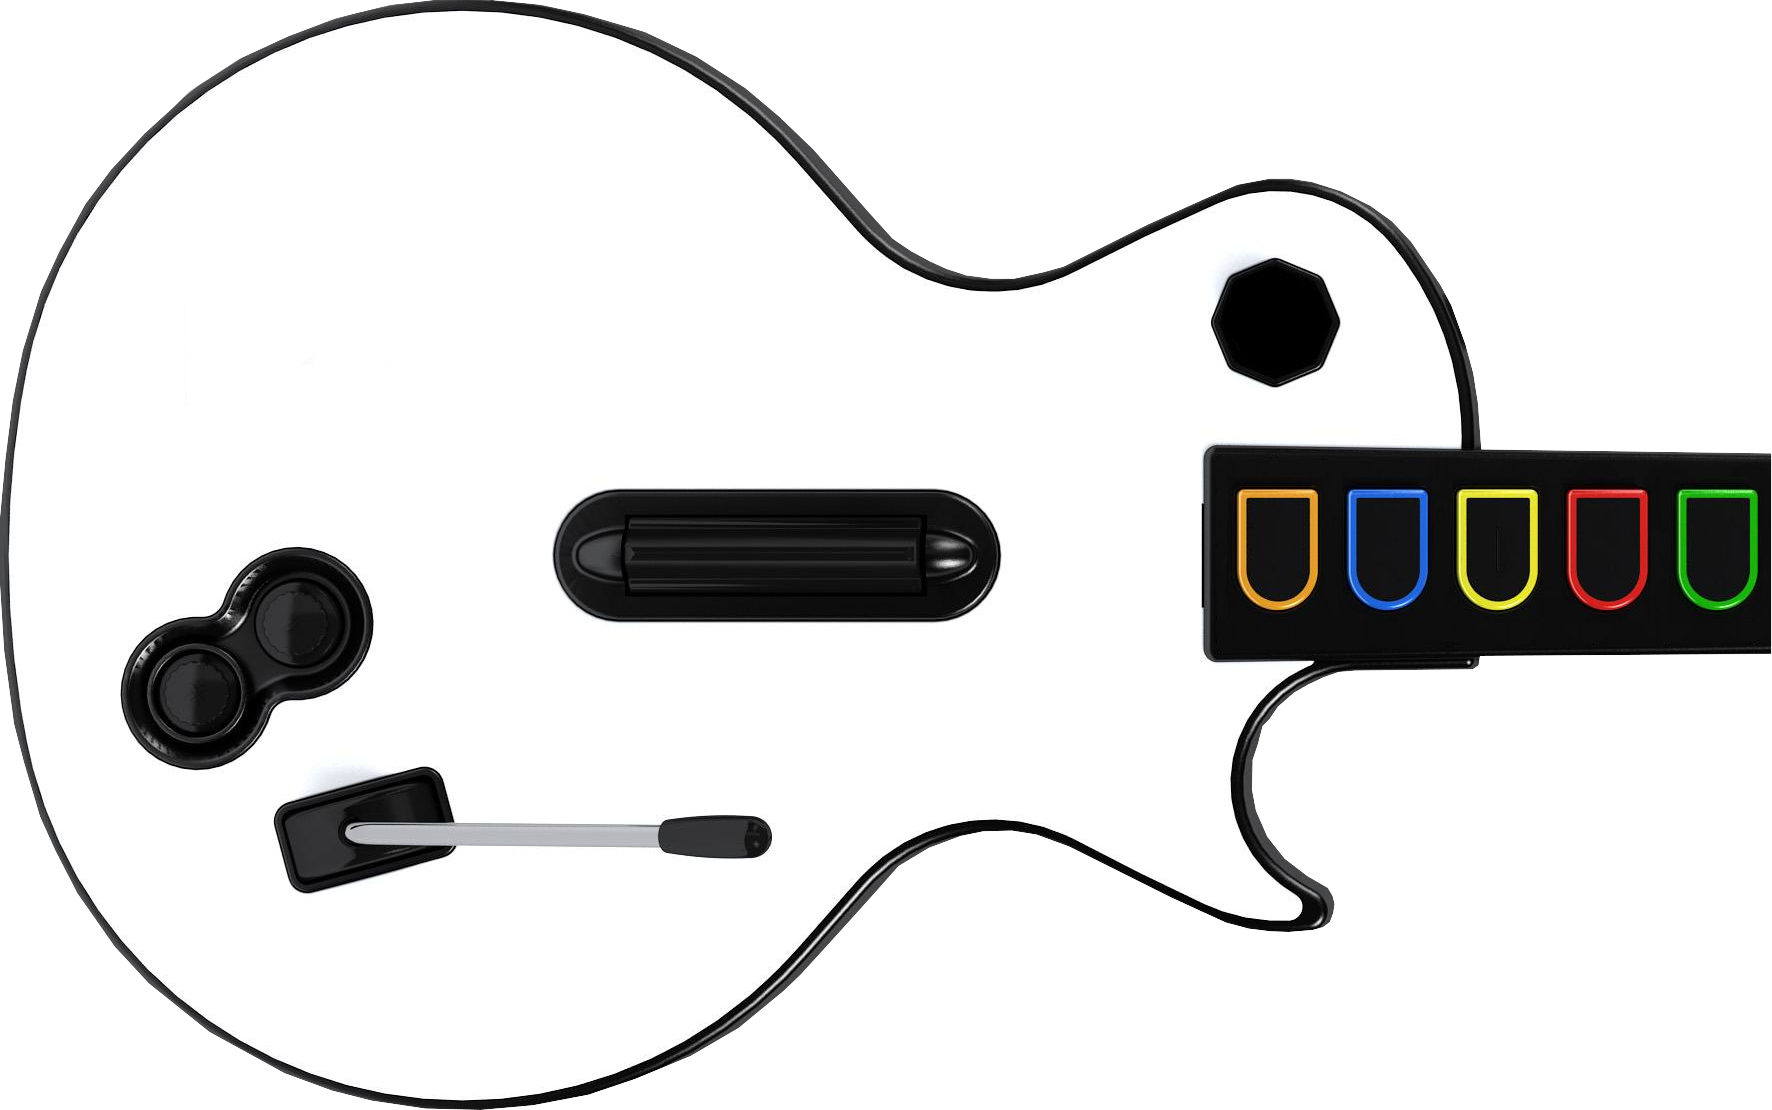
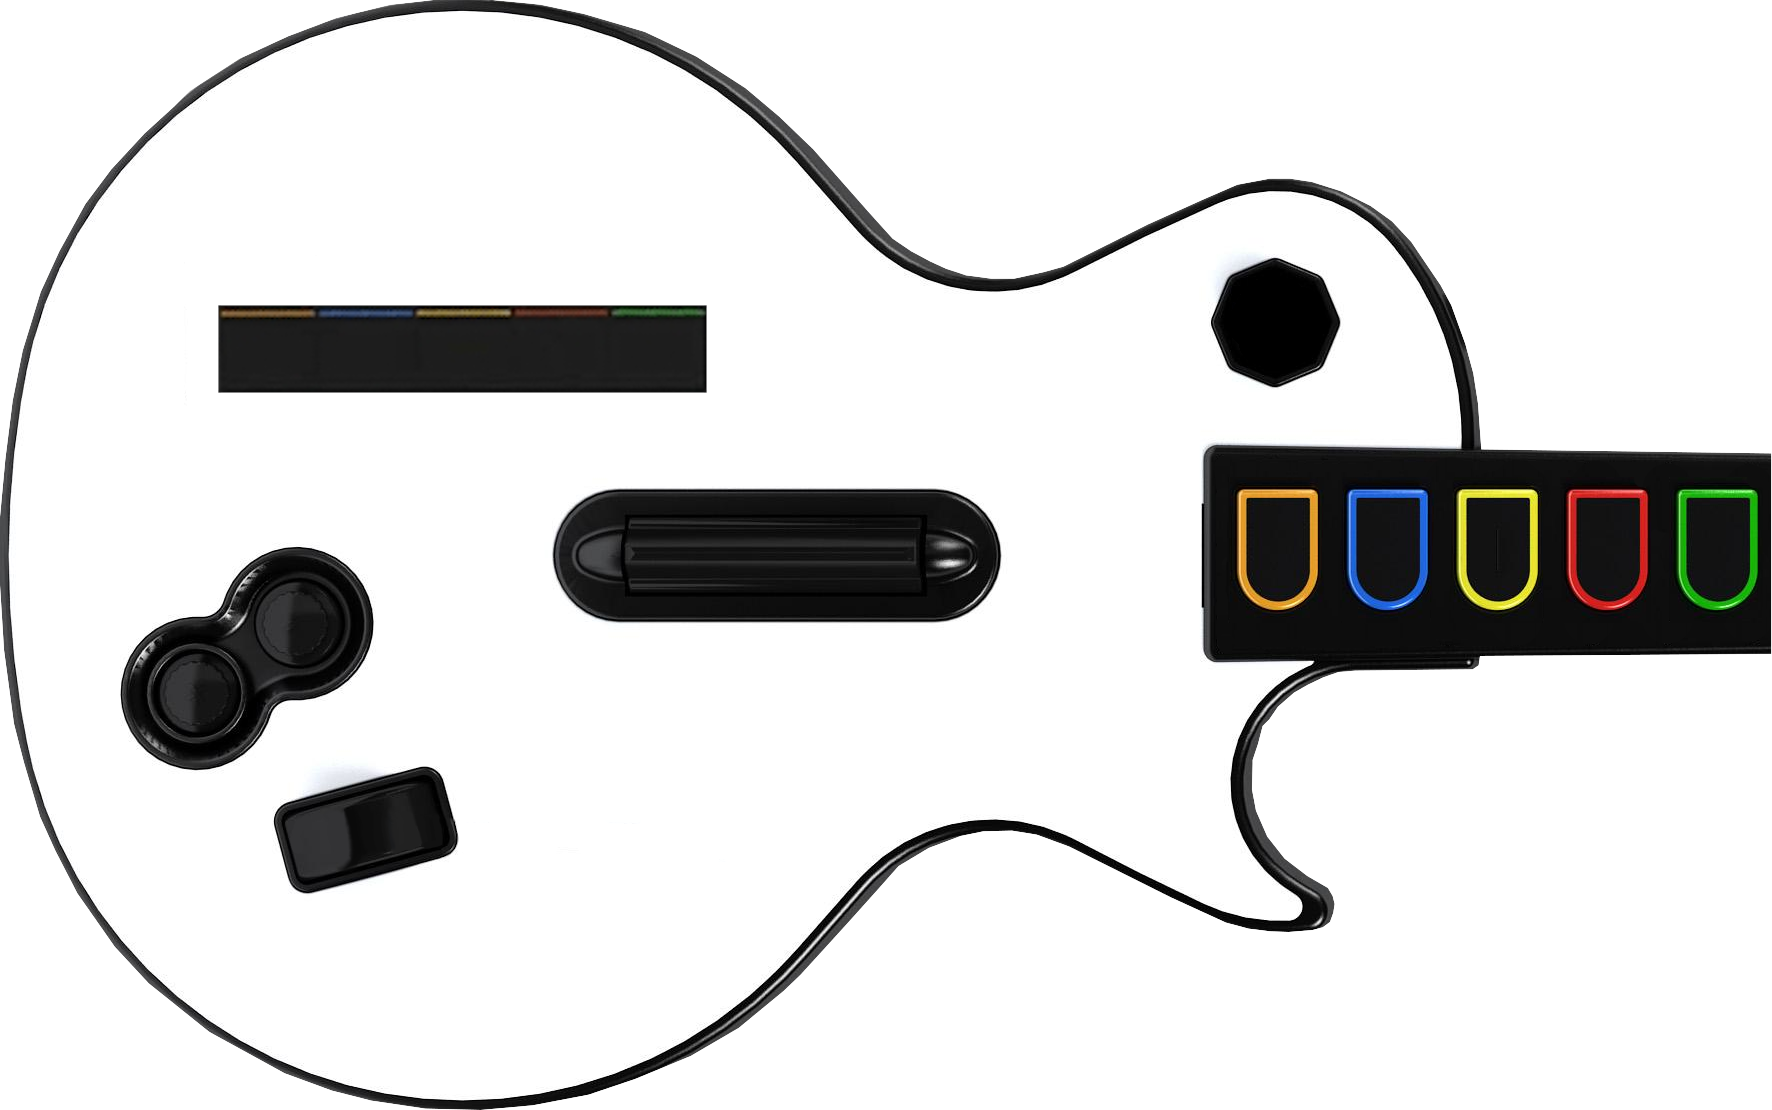
Adding Guitar Touch bar and Whammy bar Support.

Changed region(s): [[0.1242, 0.2757, 0.4035, 0.3676], [0.1862, 0.7351, 0.4345, 0.7964]]

diff --git a/WiinUPro/Controls/WiiControl.xaml b/WiinUPro/Controls/WiiControl.xaml
@@ -276,7 +276,7 @@
             </Canvas>
         </Viewbox>
         <!-- Guitar -->
-        <Viewbox x:Name="viewGuitar" Width="1100" Visibility="Collapsed">
+        <Viewbox x:Name="viewGuitar" Width="1100" Visibility="Visible">
             <Canvas Width="1772" Height="1110" Margin="-120,0,0,0" Background="Transparent">
                 <Grid Margin="0,0,0,0">
                     <Image Source="/WiinUPro;component/Images/Controllers/Guitar/guitarBase.png" HorizontalAlignment="Left" VerticalAlignment="Top" Margin="0" Width="1772" Height="1110"/>
@@ -298,6 +298,21 @@
                     </Image>
                     <Image x:Name="gBtnPlus" Source="/WiinUPro;component/Images/Controllers/Guitar/gButton.png" HorizontalAlignment="Left" VerticalAlignment="Top" Margin="266,596,0,0" Width="59" Opacity="0" MouseLeftButtonDown="Btn_MouseLeftButtonDown" MouseRightButtonUp="Btn_MouseRightButtonUp" Tag="gutMINUS" />
                     <Image x:Name="gBtnMinus" Source="/WiinUPro;component/Images/Controllers/Guitar/gButton.png" HorizontalAlignment="Left" VerticalAlignment="Top" Margin="167,664,0,0" Width="59" Opacity="0" MouseLeftButtonDown="Btn_MouseLeftButtonDown" MouseRightButtonUp="Btn_MouseRightButtonUp" Tag="gutPLUS" />
+                    <Image x:Name="gTouch1" Source="/WiinUPro;component/Images/Controllers/Guitar/gTouch.png" HorizontalAlignment="Left" VerticalAlignment="Top" Margin="613,322,0,0" Width="90" Opacity="0" MouseLeftButtonDown="Btn_MouseLeftButtonDown" MouseRightButtonUp="Btn_MouseRightButtonUp" Tag="gutT1" />
+                    <Image x:Name="gTouch2" Source="/WiinUPro;component/Images/Controllers/Guitar/gTouch.png" HorizontalAlignment="Left" VerticalAlignment="Top" Margin="516,322,0,0" Width="90" Opacity="0" MouseLeftButtonDown="Btn_MouseLeftButtonDown" MouseRightButtonUp="Btn_MouseRightButtonUp" Tag="gutT2" />
+                    <Image x:Name="gTouch3" Source="/WiinUPro;component/Images/Controllers/Guitar/gTouch.png" HorizontalAlignment="Left" VerticalAlignment="Top" Margin="420,322,0,0" Width="90" Opacity="0" MouseLeftButtonDown="Btn_MouseLeftButtonDown" MouseRightButtonUp="Btn_MouseRightButtonUp" Tag="gutT3" />
+                    <Image x:Name="gTouch4" Source="/WiinUPro;component/Images/Controllers/Guitar/gTouch.png" HorizontalAlignment="Left" VerticalAlignment="Top" Margin="321,322,0,0" Width="90" Opacity="0" MouseLeftButtonDown="Btn_MouseLeftButtonDown" MouseRightButtonUp="Btn_MouseRightButtonUp" Tag="gutT4" />
+                    <Image x:Name="gTouch5" Source="/WiinUPro;component/Images/Controllers/Guitar/gTouch.png" HorizontalAlignment="Left" VerticalAlignment="Top" Margin="223,322,0,0" Width="90" Opacity="0" MouseLeftButtonDown="Btn_MouseLeftButtonDown" MouseRightButtonUp="Btn_MouseRightButtonUp" Tag="gutT5" />
+                    <Image x:Name="gWhammy" Source="/WiinUPro;component/Images/Controllers/Guitar/gWhammy.png" HorizontalAlignment="Left" VerticalAlignment="Top" Margin="345,815,0,0" Width="428"  MouseLeftButtonUp="OpenContextMenu">
+                        <Image.ContextMenu>
+                            <ContextMenu>
+                                <MenuItem Header="Press" Tag="gutWT" Click="OpenInput" />
+                                <MenuItem Header="Full Press" Tag="gutWFULL" Click="OpenInput" />
+                                <Separator/>
+                                <MenuItem Header="Calibrate" Tag="gutWT" Click="CalibrateTrigger_Click"/>
+                            </ContextMenu>
+                        </Image.ContextMenu>
+                    </Image>
                     <!-- Joystick -->
                     <Image x:Name="gStick" Source="/WiinUPro;component/Images/Controllers/Guitar/gJoystick.png" HorizontalAlignment="Left" VerticalAlignment="Top" Margin="1236,283,0,0" Width="77" Opacity="1" MouseLeftButtonUp="OpenContextMenu" >
                         <Image.ContextMenu>

diff --git a/WiinUPro/Windows/DummyWindow.xaml b/WiinUPro/Windows/DummyWindow.xaml
@@ -110,14 +110,21 @@
                 <Button x:Name="gYellow" Content="Y" HorizontalAlignment="Left" Margin="54,5,0,0" VerticalAlignment="Top" Width="20" Height="20" Click="button_Click" Tag="Y"/>
                 <Button x:Name="gBlue" Content="B" HorizontalAlignment="Left" Margin="29,5,0,0" VerticalAlignment="Top" Width="20" Height="20" Click="button_Click" Tag="B"/>
                 <Button x:Name="gOrange" Content="O" HorizontalAlignment="Left" Margin="4,5,0,0" VerticalAlignment="Top" Width="20" Height="20" Click="button_Click" Tag="O"/>
-                <Button x:Name="gUp" Content="^" HorizontalAlignment="Left" Margin="104,30,0,0" VerticalAlignment="Top" Width="20" Height="20" Click="button_Click" Tag="SUp"/>
-                <Button x:Name="gDown" Content="v" HorizontalAlignment="Left" Margin="104,55,0,0" VerticalAlignment="Top" Width="20" Height="20" Click="button_Click" Tag="SDown"/>
+                <Button x:Name="gUp" Content="^" HorizontalAlignment="Left" Margin="79,30,0,0" VerticalAlignment="Top" Width="20" Height="20" Click="button_Click" Tag="SUp"/>
+                <Button x:Name="gDown" Content="v" HorizontalAlignment="Left" Margin="104,30,0,0" VerticalAlignment="Top" Width="20" Height="20" Click="button_Click" Tag="SDown"/>
                 <Button x:Name="gPlus" Content="+" HorizontalAlignment="Left" Margin="4,30,0,0" VerticalAlignment="Top" Width="20" Height="20" Click="button_Click" Tag="PLUS"/>
                 <Button x:Name="gMinus" Content="-" HorizontalAlignment="Left" Margin="29,30,0,0" VerticalAlignment="Top" Width="20" Height="20" Click="button_Click" Tag="MINUS"/>
                 <Slider x:Name="sliderGutX" HorizontalAlignment="Left" Margin="141,5,0,0" VerticalAlignment="Top" Width="112" Maximum="1" Minimum="-1" TickFrequency="0.1" IsSnapToTickEnabled="True" TickPlacement="BottomRight" ValueChanged="ChangeAnalog" Tag="JoyX"/>
                 <Slider x:Name="sliderGutY" HorizontalAlignment="Left" Margin="141,36,0,0" VerticalAlignment="Top" Width="112" Maximum="1" Minimum="-1" TickFrequency="0.1" IsSnapToTickEnabled="True" TickPlacement="BottomRight" ValueChanged="ChangeAnalog" Tag="JoyY"/>
                 <Label Content="X" HorizontalAlignment="Left" Margin="258,3,0,0" VerticalAlignment="Top"/>
                 <Label Content="Y" HorizontalAlignment="Left" Margin="258,34,0,0" VerticalAlignment="Top"/>
+                <Slider x:Name="sliderGutW" HorizontalAlignment="Left" Margin="141,64,0,0" VerticalAlignment="Top" Width="112" Maximum="1" Minimum="0" TickFrequency="0.1" IsSnapToTickEnabled="True" TickPlacement="BottomRight" ValueChanged="ChangeAnalog" Tag="WT"/>
+                <Label Content="W" HorizontalAlignment="Left" Margin="256,59,0,0" VerticalAlignment="Top"/>
+                <Button x:Name="gTouch1" Content="T1" HorizontalAlignment="Left" Margin="104,55,0,0" VerticalAlignment="Top" Width="20" Height="20" Click="button_Click" Tag="T1"/>
+                <Button x:Name="gTouch2" Content="T2" HorizontalAlignment="Left" Margin="79,55,0,0" VerticalAlignment="Top" Width="20" Height="20" Click="button_Click" Tag="T2"/>
+                <Button x:Name="gTouch3" Content="T3" HorizontalAlignment="Left" Margin="54,55,0,0" VerticalAlignment="Top" Width="20" Height="20" Click="button_Click" Tag="T3"/>
+                <Button x:Name="gTouch4" Content="T4" HorizontalAlignment="Left" Margin="29,55,0,0" VerticalAlignment="Top" Width="20" Height="20" Click="button_Click" Tag="T4"/>
+                <Button x:Name="gTouch5" Content="T5" HorizontalAlignment="Left" Margin="4,55,0,0" VerticalAlignment="Top" Width="20" Height="20" Click="button_Click" Tag="T5"/>
             </Grid>
         </GroupBox>
         <!-- GCN Adapter -->

diff --git a/Nintroller/Controllers/Guitar.cs b/Nintroller/Controllers/Guitar.cs
@@ -11,7 +11,7 @@ namespace NintrollerLib
         public bool StrumUp, StrumDown;
         public bool Minus, Plus;
         public Joystick joystick;
-        public byte whammyBar;
+        public Trigger whammyBar;
         public byte touchBar;
         public bool T1, T2, T3, T4, T5; // Touch Frets
 
@@ -34,7 +34,7 @@ namespace NintrollerLib
                 joystick.rawX =    data[offset    ] & 0x3F;
                 joystick.rawY =    data[offset + 1] & 0x3F;
                 touchBar  = (byte)(data[offset + 2] & 0x1F);
-                whammyBar = (byte)(data[offset + 3] & 0x1F);
+                whammyBar.rawValue = (byte)(data[offset + 3] & 0x1F);
 
                 Plus      = (data[offset + 4] & 0x04) == 0;
                 Minus     = (data[offset + 4] & 0x10) == 0;
@@ -104,6 +104,8 @@ namespace NintrollerLib
                 }
 
                 joystick.Normalize();
+                whammyBar.Normalize();
+                whammyBar.full = whammyBar.rawValue >= whammyBar.max;
             }
 
             wiimote = new Wiimote(data, wiimote);
@@ -149,6 +151,7 @@ namespace NintrollerLib
             if (from.GetType() == typeof(Guitar))
             {
                 joystick.Calibrate(((Guitar)from).joystick);
+                whammyBar.Calibrate(((Guitar)from).whammyBar);
                 wiimote.SetCalibration(((Guitar)from).wiimote);
             }
             else if (from.GetType() == typeof(Wiimote))
@@ -187,8 +190,25 @@ namespace NintrollerLib
                         }
                     }
                 }
+                else if (component.StartsWith("t"))
+                {
+                    string[] triggerConfig = component.Split(new char[] { '|' });
+
+                    for (int t = 1; t < triggerConfig.Length; t++)
+                    {
+                        int value = 0;
+                        if (int.TryParse(triggerConfig[t], out value))
+                        {
+                            switch (t)
+                            {
+                                case 1: whammyBar.min = value; break;
+                                case 2: whammyBar.max = value; break;
+                            }
+                        }
+                    }
+                }
             }
-            }
+        }
 
         public string GetCalibrationString()
         {
@@ -204,6 +224,10 @@ namespace NintrollerLib
                     sb.Append("|"); sb.Append(joystick.minY);
                     sb.Append("|"); sb.Append(joystick.maxY);
                     sb.Append("|"); sb.Append(joystick.deadY);
+
+                sb.Append(":t");
+                    sb.Append("|"); sb.Append(whammyBar.min);
+                    sb.Append("|"); sb.Append(whammyBar.max);
 
             return sb.ToString();
         }
@@ -247,6 +271,12 @@ namespace NintrollerLib
             yield return new KeyValuePair<string, float>(INPUT_NAMES.GUITAR.DOWN, joystick.Y > 0 ? 0 : -joystick.Y);
             yield return new KeyValuePair<string, float>(INPUT_NAMES.GUITAR.LEFT, joystick.X > 0 ? 0 : -joystick.X);
             yield return new KeyValuePair<string, float>(INPUT_NAMES.GUITAR.RIGHT, joystick.X > 0 ? joystick.X : 0);
+
+            // Whammy
+            whammyBar.Normalize();
+            yield return new KeyValuePair<string, float>(INPUT_NAMES.GUITAR.WHAMMY, whammyBar.value > 0 ? 1.0f : 0.0f);
+            yield return new KeyValuePair<string, float>(INPUT_NAMES.GUITAR.WHAMMY_FULL, whammyBar.rawValue >= whammyBar.max ? 1.0f : 0.0f);
+            yield return new KeyValuePair<string, float>(INPUT_NAMES.GUITAR.WHAMMY_BAR, whammyBar.value);
 
             // Touch Frets
             yield return new KeyValuePair<string, float>(INPUT_NAMES.GUITAR.TOUCH_1, T1 ? 1.0f : 0.0f);

diff --git a/WiinUPro/Controls/WiiControl.xaml.cs b/WiinUPro/Controls/WiiControl.xaml.cs
@@ -165,12 +165,22 @@ namespace WiinUPro
                 gBtnStrumDown.Opacity = gut.StrumDown ? 1 : 0;
                 gBtnPlus.Opacity = gut.Plus ? 1 : 0;
                 gBtnMinus.Opacity = gut.Minus ? 1 : 0;
+                gTouch1.Opacity = gut.T1 ? 1 : 0;
+                gTouch2.Opacity = gut.T2 ? 1 : 0;
+                gTouch3.Opacity = gut.T3 ? 1 : 0;
+                gTouch4.Opacity = gut.T4 ? 1 : 0;
+                gTouch5.Opacity = gut.T5 ? 1 : 0;
                 gStick.Margin = new Thickness(1236 + 30 * gut.joystick.X, 283 - 30 * gut.joystick.Y, 0, 0);
                 gStick.Margin = new Thickness(1236 + 30 * gut.joystick.X, 283 - 30 * gut.joystick.Y, 0, 0);
+                gWhammy.Margin = new Thickness(345 + 60 * gut.whammyBar.value, 815 - 20 * gut.whammyBar.value, 0, 0);
 
                 if (_openJoyWindow != null && _calibrationTarget == App.CAL_GUT_JOYSTICK)
                 {
                     _openJoyWindow.Update(gut.joystick);
+                }
+                else if (_openTrigWindow != null && _calibrationTarget == App.CAL_GUT_WHAMMY)
+                {
+                    _openTrigWindow.Update(gut.whammyBar);
                 }
             }
         }
@@ -478,6 +488,11 @@ namespace WiinUPro
             {
                 nonCalibrated = Calibrations.None.ClassicControllerRaw.L;
                 curCalibrated = ((ClassicController)_lastState).L;
+            }
+            else if (_calibrationTarget == App.CAL_GUT_WHAMMY)
+            {
+                nonCalibrated = Calibrations.None.GuitarRaw.whammyBar;
+                curCalibrated = ((Guitar)_lastState).whammyBar;
             }
 
             Windows.TriggerCalibrationWindow trigCal = new Windows.TriggerCalibrationWindow(nonCalibrated, curCalibrated);

diff --git a/Nintroller/Calibrations.cs b/Nintroller/Calibrations.cs
@@ -248,6 +248,11 @@
                     minY = 0,
                     maxY = 63,
                     deadY = 0
+                },
+                whammyBar = new Trigger()
+                {
+                    min = 0,
+                    max = 31
                 }
             };
 
@@ -485,6 +490,11 @@
                     minY = 0,
                     maxY = 63,
                     deadY = 2
+                },
+                whammyBar = new Trigger()
+                {
+                    min = 0,
+                    max = 31
                 }
             };
 
@@ -730,6 +740,11 @@
                     minY = 0,
                     maxY = 63,
                     deadY = 4
+                },
+                whammyBar = new Trigger()
+                {
+                    min = 1,
+                    max = 30
                 }
             };
 
@@ -967,6 +982,11 @@
                     minY = 8,
                     maxY = 55,
                     deadY = 8
+                },
+                whammyBar = new Trigger()
+                {
+                    min = 2,
+                    max = 29
                 }
             };
 
@@ -1204,6 +1224,11 @@
                     minY = 12,
                     maxY = 51,
                     deadY = 10
+                },
+                whammyBar = new Trigger()
+                {
+                    min = 4,
+                    max = 28
                 }
             };
             /// <summary>

diff --git a/Shared/DummyDevice.cs b/Shared/DummyDevice.cs
@@ -681,7 +681,42 @@ namespace Shared
                 buf[1] = (byte)(y[0] + 0xC0);
 
                 // Toucbar
+                buf[2] = 0x00;
+                if (g.T5)
+                {
+                    if (g.T4)
+                        buf[2] = 0x1A;
+                    else
+                        buf[2] = 0x1F;
+                }
+                else if (g.T4)
+                {
+                    if (g.T3)
+                        buf[2] = 0x14;
+                    else
+                        buf[2] = 0x17;
+                }
+                else if (g.T3)
+                {
+                    if (g.T2)
+                        buf[2] = 0x0C;
+                    else
+                        buf[2] = 0x12;
+                }
+                else if (g.T2)
+                {
+                    if (g.T1)
+                        buf[2] = 0x07;
+                    else
+                        buf[2] = 0x0A;
+                }
+                else if (g.T1)
+                {
+                    buf[2] = 0x04;
+                }
+
                 // Whammy bar
+                buf[3] = BitConverter.GetBytes(g.whammyBar.rawValue)[0];
 
                 buf[4] = 0xAB;
                 buf[4] += (byte)(!g.Plus ? 0x04 : 0x00);

diff --git a/WiinUPro/Windows/DummyWindow.xaml.cs b/WiinUPro/Windows/DummyWindow.xaml.cs
@@ -385,6 +385,11 @@ namespace WiinUPro.Windows
                     gut.joystick.Y = value;
                     gut.joystick.rawY = CalculateRaw(gut.joystick.minY, gut.joystick.maxY, value);
                     break;
+
+                case INPUT_NAMES.GUITAR.WHAMMY_BAR:
+                    gut.whammyBar.value = value;
+                    gut.whammyBar.rawValue = (short)((gut.whammyBar.max - gut.whammyBar.min) * value);
+                    break;
             }
 
             return gut;
@@ -543,6 +548,11 @@ namespace WiinUPro.Windows
                 case INPUT_NAMES.GUITAR.STRUM_DOWN: gut.StrumDown = !gut.StrumDown; break;
                 case INPUT_NAMES.GUITAR.PLUS: gut.Plus = !gut.Plus; break;
                 case INPUT_NAMES.GUITAR.MINUS: gut.Minus = !gut.Minus; break;
+                case INPUT_NAMES.GUITAR.TOUCH_1: gut.T1 = !gut.T1; break;
+                case INPUT_NAMES.GUITAR.TOUCH_2: gut.T2 = !gut.T2; break;
+                case INPUT_NAMES.GUITAR.TOUCH_3: gut.T3 = !gut.T3; break;
+                case INPUT_NAMES.GUITAR.TOUCH_4: gut.T4 = !gut.T4; break;
+                case INPUT_NAMES.GUITAR.TOUCH_5: gut.T5 = !gut.T5; break;
             }
 
             return gut;

diff --git a/WiinUPro/App.xaml.cs b/WiinUPro/App.xaml.cs
@@ -27,6 +27,7 @@ namespace WiinUPro
         internal const string CAL_SWP_LJOYSTICK = "swpJoyL";
         internal const string CAL_SWP_RJOYSTICK = "swpJoyR";
         internal const string CAL_GUT_JOYSTICK = "gutJoy";
+        internal const string CAL_GUT_WHAMMY = "gutWT";
         internal const string CAL_CC_LTRIGGER = "ccLT";
         internal const string CAL_CC_RTRIGGER = "ccRT";
         internal const string CAL_GCN_LTRIGGER = "gcnLT";

diff --git a/Nintroller/INPUT_NAMES.cs b/Nintroller/INPUT_NAMES.cs
@@ -197,6 +197,10 @@
             public const string PLUS = "gutPLUS";
             public const string MINUS = "gutMINUS";
 
+            public const string WHAMMY = "gutW";
+            public const string WHAMMY_BAR = "gutWT";
+            public const string WHAMMY_FULL = "gutWFULL";
+
             public const string JOY_X = "gutJoyX";
             public const string JOY_Y = "gutJoyY";
 
